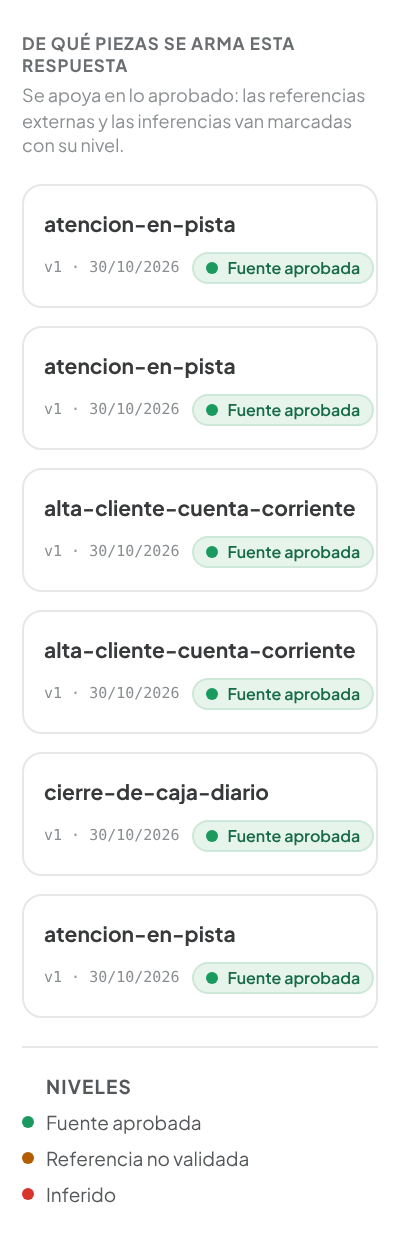
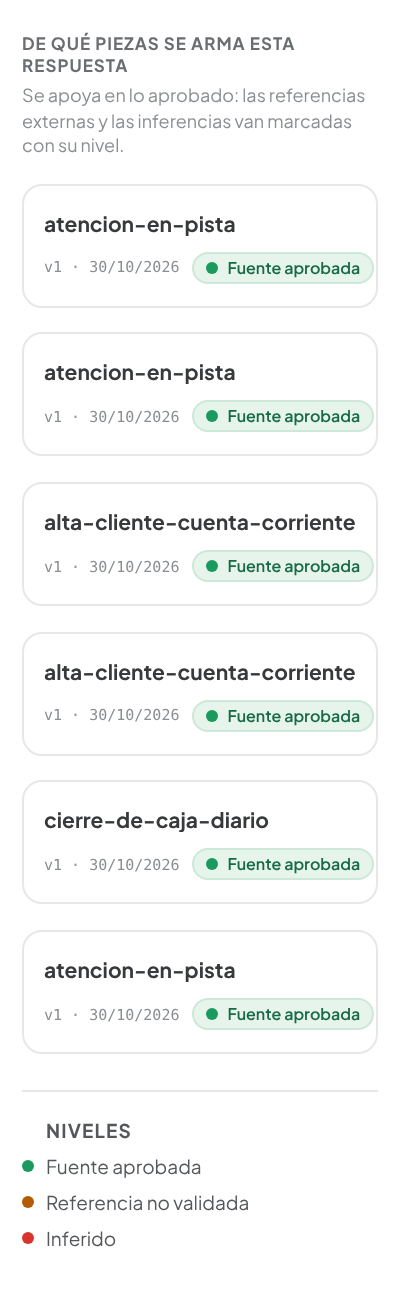
soluciones: en Arrayán el 'cómo funciona' va bajo el texto, alineado con las capturas
Ombú vuelve a la franja ancha. En Arrayán la franja queda vertical dentro
de la columna de texto, con un solo punto por tramo y recorrido más largo,
el núcleo más angosto, y el panel de fuentes a la altura de las otras dos
capturas.

Claude-Session: https://claude.ai/code/session_01R8AM8KCA3unNjmvkVWvfys

diff --git a/soluciones.html b/soluciones.html
@@ -116,7 +116,7 @@ html{scroll-behavior:smooth;scroll-padding-top:72px}
   /* flow lines go vertical */
   .flow{height:40px!important;width:1px!important;margin:0 auto}
   .flow .dot{top:auto;left:50%!important;margin-left:-4px;animation-name:flow-v!important}
-@keyframes flow-v{0%{top:-4px;opacity:0}10%{opacity:1}90%{opacity:1}100%{top:calc(100% - 4px);opacity:0}}
+  @keyframes flow-v{0%{top:-4px;opacity:0}10%{opacity:1}90%{opacity:1}100%{top:calc(100% - 4px);opacity:0}}
   /* logo strip */
   .mq-track{gap:56px!important;padding-right:56px!important}.lg img{height:30px!important}
   /* team */
@@ -163,7 +163,7 @@ html{scroll-behavior:smooth;scroll-padding-top:72px}
 .fs-core{flex:0 0 auto;display:flex;flex-direction:column;align-items:center;gap:2px;padding:10px 18px;border-radius:9px;background:var(--tint);border:1px solid var(--acc);text-align:center}
 .fs-core b{font-weight:500;font-size:14px;color:#0E1A14}.fs-core small{font:500 10px 'JetBrains Mono',monospace;color:#5C6B62;letter-spacing:.02em}
 @media(max-width:900px){.fs-row{flex-direction:column;align-items:stretch;gap:10px}.fs-group,.fs-group:last-child{grid-template-columns:repeat(2,minmax(0,1fr))}.fs-arrow{flex:none;width:1px;height:28px;margin:0 auto}.fs-arrow .dot{top:auto;left:50%;margin-left:-4px;animation-name:flow-v}}
-.fs-inline{margin-top:14px}.fs-inline .fs-label{margin-bottom:8px}.fs-inline .fs-row{flex-direction:column;align-items:stretch;gap:6px;padding:10px}.fs-inline .fs-group{display:flex;flex-wrap:wrap;justify-content:center;gap:5px}.fs-inline .fs-chip{flex:0 1 auto;padding:5px 9px;font-size:12px}.fs-inline .fs-arrow{flex:none;width:1px;height:18px;margin:0 auto}.fs-inline .fs-arrow .dot{top:auto;left:50%;margin-left:-4px;animation-name:flow-v}.fs-inline .fs-core{padding:7px 16px}
+.fs-inline{margin-top:auto;padding-top:22px}.fs-inline .fs-label{margin-bottom:8px}.fs-inline .fs-row{flex-direction:column;align-items:stretch;gap:6px;padding:10px}.fs-inline .fs-group{display:flex;flex-wrap:wrap;justify-content:center;gap:5px}.fs-inline .fs-chip{flex:0 1 auto;padding:5px 9px;font-size:12px}.fs-inline .fs-arrow{flex:none;width:1px;height:38px;margin:0 auto;background:rgba(14,26,20,.14)}.fs-inline .fs-arrow .dot{top:auto;left:50%;margin-left:-4px;animation:flow-v 2.2s ease-in-out infinite}.fs-inline .fs-arrow .dot.b{display:none}.fs-inline .fs-core{align-self:center;min-width:58%;padding:8px 28px}@media(min-width:901px){.k-layout{align-items:stretch}}
 @keyframes flow-v{0%{top:-4px;opacity:0}10%{opacity:1}90%{opacity:1}100%{top:calc(100% - 4px);opacity:0}}
 
 /* ilustraciones de sistemas */
@@ -206,7 +206,7 @@ html{scroll-behavior:smooth;scroll-padding-top:72px}
 <!-- OMBÚ -->
 <section class="sec" id="ombu" style="background:#F6F8F5">
 <style>
-.md-layout{max-width:1200px;margin:auto;padding:22px 24px 72px;box-sizing:border-box;display:grid;grid-template-columns:minmax(0,.9fr) minmax(0,1.1fr);gap:48px;align-items:start}
+.md-layout{max-width:1200px;margin:auto;padding:22px 24px 48px;box-sizing:border-box;display:grid;grid-template-columns:minmax(0,.9fr) minmax(0,1.1fr);gap:48px;align-items:start}
 @media(max-width:900px){.md-layout{grid-template-columns:1fr;gap:26px}}
 </style>
 <div class="mod-head" data-reveal="" style="max-width:1200px;margin:auto;padding:72px 24px 0;box-sizing:border-box;display:flex;flex-direction:column;gap:14px">
@@ -219,16 +219,6 @@ html{scroll-behavior:smooth;scroll-padding-top:72px}
 <p style="margin:0;max-width:520px;font-size:17px;line-height:1.5;color:#3D4F44">Tenés los datos repartidos entre sistemas, planillas y sucursales. Ombú los conecta, los unifica y los convierte en tableros, alertas e informes, sin cambiar los sistemas que ya usás.</p>
 <ul style="list-style:none;margin:0;padding:0;display:flex;flex-direction:column;gap:9px;font-size:15px;line-height:1.45;color:#3D4F44;max-width:520px"><li style="display:flex;gap:10px;align-items:flex-start"><span style="flex:none;width:6px;height:6px;border-radius:50%;background:#1F7A85;margin-top:9px"></span><span>Indicadores actualizados sin armar reportes a mano.</span></li><li style="display:flex;gap:10px;align-items:flex-start"><span style="flex:none;width:6px;height:6px;border-radius:50%;background:#1F7A85;margin-top:9px"></span><span>Alertas cuando algo se sale de lo esperado.</span></li><li style="display:flex;gap:10px;align-items:flex-start"><span style="flex:none;width:6px;height:6px;border-radius:50%;background:#1F7A85;margin-top:9px"></span><span>A través de IA podés consultar tus datos desde el celular y generar informes.</span></li></ul>
 <p style="margin:4px 0 0;font-size:13px;color:#6F7C75">Ya funciona en empresas privadas y organismos públicos. Lo adaptamos a cada operación.</p>
-<div class="flow-strip fs-inline" style="--acc:#1F7A85;--tint:rgba(31,122,133,.10)">
-<div class="fs-label">CÓMO FUNCIONA · DE TUS SISTEMAS A RESPUESTAS</div>
-<div class="fs-row">
-<div class="fs-group"><span class="fs-chip"><svg viewBox="0 0 24 24"><path d="M6 3h9l4 4v14H6z"/><path d="M14 3v5h5M9 13h6M9 17h6"/></svg>Facturación</span><span class="fs-chip"><svg viewBox="0 0 24 24"><rect x="3" y="4" width="18" height="16" rx="2"/><path d="M3 10h18M9 4v16"/></svg>Planillas</span><span class="fs-chip"><svg viewBox="0 0 24 24"><path d="M3 8l9-4 9 4v8l-9 4-9-4z"/><path d="M3 8l9 4 9-4M12 12v8"/></svg>Stock</span><span class="fs-chip"><svg viewBox="0 0 24 24"><rect x="3" y="5" width="18" height="12" rx="2"/><path d="M7 21h10M12 17v4"/></svg>Punto de venta</span><span class="fs-chip"><svg viewBox="0 0 24 24"><path d="M3 10l9-6 9 6M5 10v10h14V10M10 20v-6h4v6"/></svg>Sucursales</span></div>
-<div class="fs-arrow flow"><span class="dot"></span><span class="dot b"></span></div>
-<div class="fs-core"><b>Ombú</b><small>conecta · limpia · unifica</small></div>
-<div class="fs-arrow flow"><span class="dot" style="animation-delay:.6s"></span><span class="dot b" style="animation-delay:1.9s"></span></div>
-<div class="fs-group"><span class="fs-chip hi"><svg viewBox="0 0 24 24"><path d="M4 5h16v11H8l-4 4z"/><path d="M8 9h8M8 12h5"/></svg>IA</span><span class="fs-chip"><svg viewBox="0 0 24 24"><rect x="3" y="3" width="7" height="9" rx="1"/><rect x="14" y="3" width="7" height="5" rx="1"/><rect x="14" y="12" width="7" height="9" rx="1"/><rect x="3" y="16" width="7" height="5" rx="1"/></svg>Tableros</span><span class="fs-chip"><svg viewBox="0 0 24 24"><path d="M6 16V11a6 6 0 0 1 12 0v5l2 2H4z"/><path d="M10 20a2 2 0 0 0 4 0"/></svg>Alertas</span><span class="fs-chip"><svg viewBox="0 0 24 24"><path d="M6 3h9l4 4v14H6z"/><path d="M14 3v5h5M9 13h6M9 17h6"/></svg>Informes</span></div>
-</div>
-</div>
 </div>
 <div data-reveal="" data-d="2"><div style="font:500 11px 'JetBrains Mono',monospace;letter-spacing:.02em;color:#6F7C75;margin:0 0 10px;text-transform:uppercase">Tablero, informe y chat reales · datos de demostración</div>
 <div class="ui-grid" aria-label="Tablero, informe y chat de Ombú" style="display:grid;grid-template-columns:minmax(0,66fr) minmax(0,32fr);gap:16px;align-items:start">
@@ -237,7 +227,16 @@ html{scroll-behavior:smooth;scroll-padding-top:72px}
 </div>
 </div>
 </div>
-</section>
+<div class="flow-strip" data-reveal="" style="--acc:#1F7A85;--tint:rgba(31,122,133,.10);max-width:1200px;margin:auto;padding:0 24px 72px;box-sizing:border-box">
+<div class="fs-label">CÓMO FUNCIONA · DE TUS SISTEMAS A RESPUESTAS</div>
+<div class="fs-row">
+<div class="fs-group"><span class="fs-chip"><svg viewBox="0 0 24 24"><path d="M6 3h9l4 4v14H6z"/><path d="M14 3v5h5M9 13h6M9 17h6"/></svg>Facturación</span><span class="fs-chip"><svg viewBox="0 0 24 24"><rect x="3" y="4" width="18" height="16" rx="2"/><path d="M3 10h18M9 4v16"/></svg>Planillas</span><span class="fs-chip"><svg viewBox="0 0 24 24"><path d="M3 8l9-4 9 4v8l-9 4-9-4z"/><path d="M3 8l9 4 9-4M12 12v8"/></svg>Stock</span><span class="fs-chip"><svg viewBox="0 0 24 24"><rect x="3" y="5" width="18" height="12" rx="2"/><path d="M7 21h10M12 17v4"/></svg>Punto de venta</span><span class="fs-chip"><svg viewBox="0 0 24 24"><path d="M3 10l9-6 9 6M5 10v10h14V10M10 20v-6h4v6"/></svg>Sucursales</span></div>
+<div class="fs-arrow flow"><span class="dot"></span><span class="dot b"></span></div>
+<div class="fs-core"><b>Ombú</b><small>conecta · limpia · unifica</small></div>
+<div class="fs-arrow flow"><span class="dot" style="animation-delay:.6s"></span><span class="dot b" style="animation-delay:1.9s"></span></div>
+<div class="fs-group"><span class="fs-chip hi"><svg viewBox="0 0 24 24"><path d="M4 5h16v11H8l-4 4z"/><path d="M8 9h8M8 12h5"/></svg>IA</span><span class="fs-chip"><svg viewBox="0 0 24 24"><rect x="3" y="3" width="7" height="9" rx="1"/><rect x="14" y="3" width="7" height="5" rx="1"/><rect x="14" y="12" width="7" height="9" rx="1"/><rect x="3" y="16" width="7" height="5" rx="1"/></svg>Tableros</span><span class="fs-chip"><svg viewBox="0 0 24 24"><path d="M6 16V11a6 6 0 0 1 12 0v5l2 2H4z"/><path d="M10 20a2 2 0 0 0 4 0"/></svg>Alertas</span><span class="fs-chip"><svg viewBox="0 0 24 24"><path d="M6 3h9l4 4v14H6z"/><path d="M14 3v5h5M9 13h6M9 17h6"/></svg>Informes</span></div>
+</div>
+</div></section>
 <!-- ARRAYÁN -->
 <section class="sec" id="arrayan" style="background:#fff">
 <style>
@@ -268,7 +267,7 @@ html{scroll-behavior:smooth;scroll-padding-top:72px}
 <div data-reveal="" data-d="2"><div style="font:500 11px 'JetBrains Mono',monospace;letter-spacing:.02em;color:#6F7C75;margin:0 0 10px;text-transform:uppercase">Pantallas reales · datos de demostración</div>
 <div class="ui-grid" aria-label="Pantallas de Arrayán" style="display:grid;grid-template-columns:minmax(0,66fr) minmax(0,32fr);gap:16px;align-items:start">
 <div style="display:flex;flex-direction:column;gap:12px"><img src="assets/screens/arrayan-tyto.png" alt="Tyto, el asistente de Arrayán, responde qué hacer si se despachó gasoil en lugar de nafta, con los pasos del procedimiento aprobado y la cita de la fuente" loading="lazy" width="800" height="800" style="border-radius:10px;border:1px solid rgba(14,26,20,.10);box-shadow:0 10px 30px rgba(14,26,20,.08);display:block;width:100%;height:auto;background:#fff"><img src="assets/screens/arrayan-relaciones.png" alt="Relaciones semánticas sugeridas por Arrayán: el rol Playero con 100% de confianza y un aviso de posible duplicado" loading="lazy" width="800" height="427" style="border-radius:10px;border:1px solid rgba(14,26,20,.10);box-shadow:0 10px 30px rgba(14,26,20,.08);display:block;width:100%;height:auto;background:#fff"></div>
-<div style="display:flex;flex-direction:column;gap:12px"><img class="ar-fuentes" src="assets/screens/arrayan-fuentes.png" alt="Panel de fuentes de la respuesta: seis piezas de documentación aprobada, con versión y fecha, y los niveles fuente aprobada, referencia no validada e inferido" loading="lazy" width="400" height="1246" style="border-radius:10px;border:1px solid rgba(14,26,20,.10);box-shadow:0 10px 30px rgba(14,26,20,.08);display:block;width:100%;height:auto;background:#fff"></div>
+<div style="display:flex;flex-direction:column;gap:12px"><img class="ar-fuentes" src="assets/screens/arrayan-fuentes.png" alt="Panel de fuentes de la respuesta: seis piezas de documentación aprobada, con versión y fecha, y los niveles fuente aprobada, referencia no validada e inferido" loading="lazy" width="400" height="1290" style="border-radius:10px;border:1px solid rgba(14,26,20,.10);box-shadow:0 10px 30px rgba(14,26,20,.08);display:block;width:100%;height:auto;background:#fff"></div>
 </div>
 </div>
 </div>
